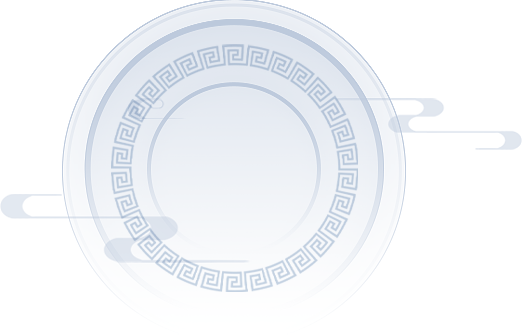
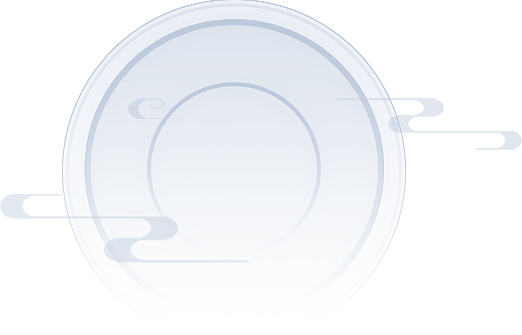
修改: 进入灵修界UI

Changed region(s): [[0.2146, 0.1194, 0.705, 0.8955]]

diff --git a/app/components/carousel/WorldPreview.js b/app/components/carousel/WorldPreview.js
@@ -8,7 +8,8 @@ import {
   Animated,
   Platform,
   ImageBackground,
-  TouchableOpacity
+  TouchableOpacity,
+  Easing
 } from 'react-native';
 
 import {
@@ -59,6 +60,20 @@ const WorldPreview = (props) => {
   const { item } = props;
   const [propNum, setPropNum] = React.useState(-1);
   const opacity = React.useRef(new Animated.Value(0)).current;
+  const spinValue = React.useRef(new Animated.Value(0)).current;
+  const spinFunc = () => {
+    spinValue.setValue(0)
+    Animated.timing(spinValue, {
+      toValue: 1, // 最终值 为1，这里表示最大旋转 360度
+      duration: 40000,
+      easing: Easing.linear,
+      useNativeDriver: false
+    }).start(() => spinFunc())
+  }
+  const spin = spinValue.interpolate({
+    inputRange: [0, 1],//输入值
+    outputRange: ['0deg', '360deg'] //输出值
+  })
 
   React.useEffect(() => {
     AppDispath({
@@ -76,6 +91,7 @@ const WorldPreview = (props) => {
       duration: 600,
       useNativeDriver: false,
     }).start();
+    spinFunc()
   }, []);
 
   if (propNum >= 0) {
@@ -126,8 +142,11 @@ const WorldPreview = (props) => {
                 >
                   <FastImage style={{ width: px2pd(260), height: px2pd(122) }} source={require('../../../assets/world/enter.png')} />
                 </TouchableOpacity>
-                <FastImage style={{ width: px2pd(522), height: px2pd(335), marginLeft: 12 }} source={require('../../../assets/world/enterBg.png')} />
-
+                <FastImage style={{ width: px2pd(522), height: px2pd(335), marginLeft: 20 }} source={require('../../../assets/world/enterBg.png')} />
+                <Animated.Image
+                  style={{ width: px2pd(247), height: px2pd(248), position: "absolute", zIndex: 0, transform: [{ rotate: spin }] }}
+                  source={require('../../../assets/world/enterBg_yuan.png')}
+                />
               </View>
               {
                 (!propEnough)
